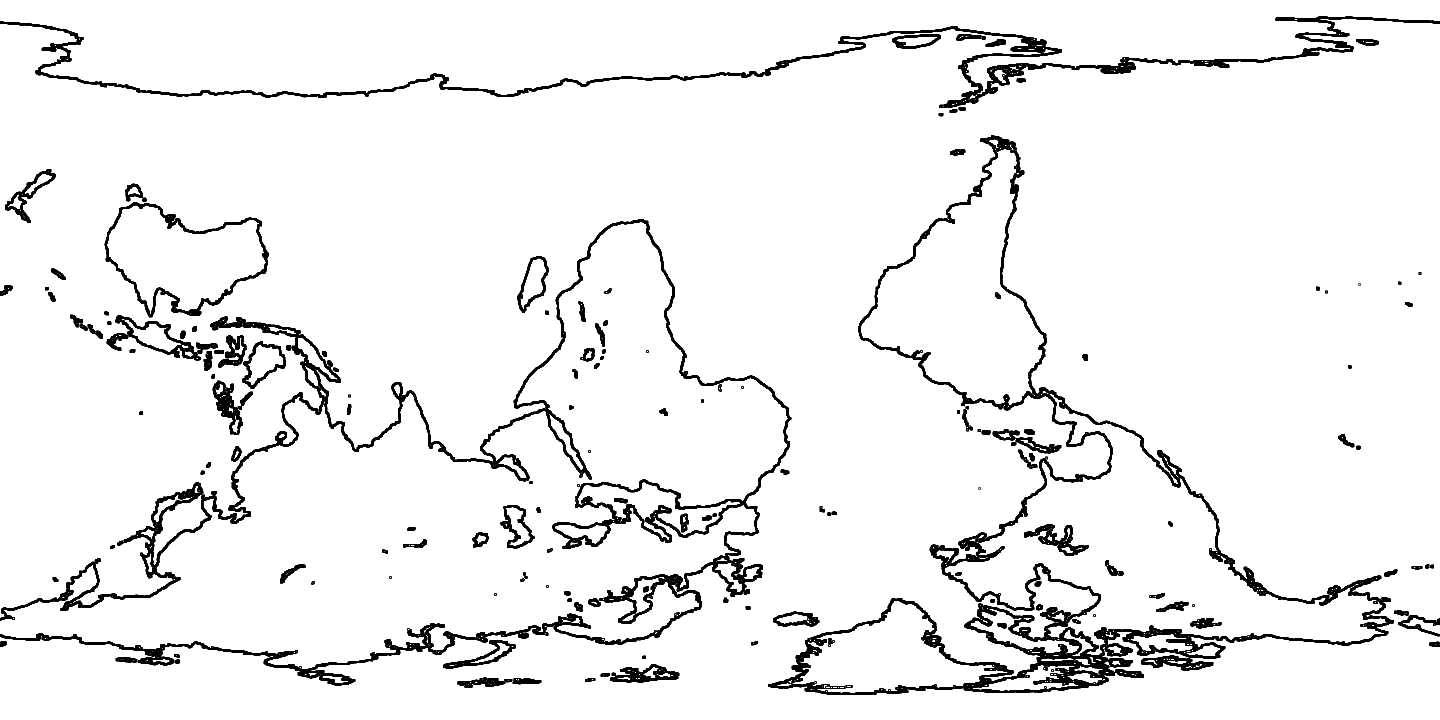
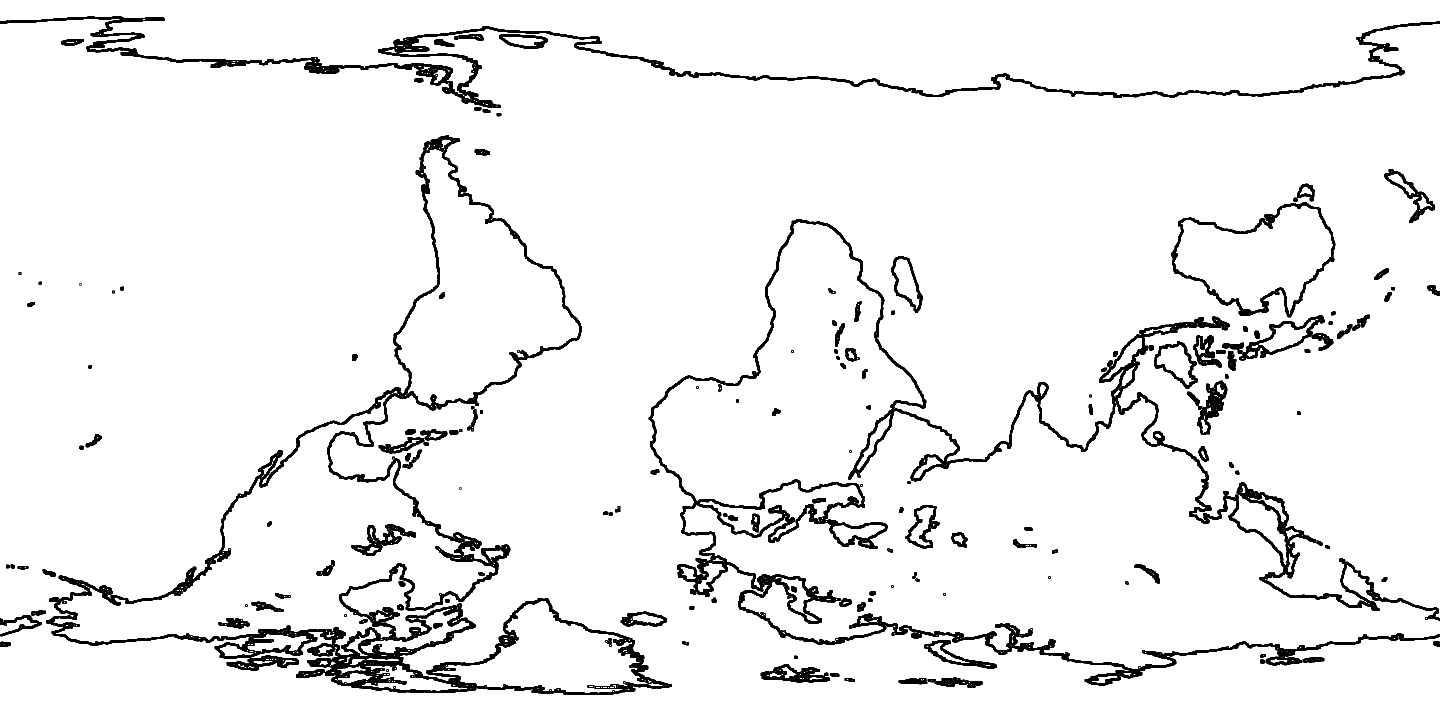
use corrected continental outline edges

diff --git a/earth/just-earth.js b/earth/just-earth.js
@@ -112,7 +112,7 @@ SceneJS.createNode({
                                                                 {
                                                                     type: "texture",
                                                                     layers: [
-                                                                        { uri:"images/earth-continental-outline-edges-invert-copy.png", blendMode: "multiply" },
+                                                                        { uri:"images/earth-continental-outline-edges-invert.png", blendMode: "multiply" },
                                                                         { uri:"images/lat-long-grid-invert-units-1440x720-15.png", blendMode: "add" },
                                                                         { uri:"images/temperature/grads-temperature-2009-03.png", blendMode: "multiply" }
                                                                     ],
